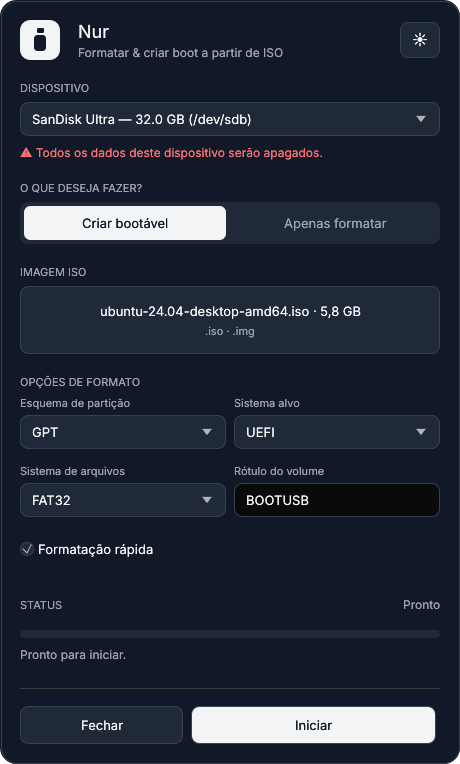
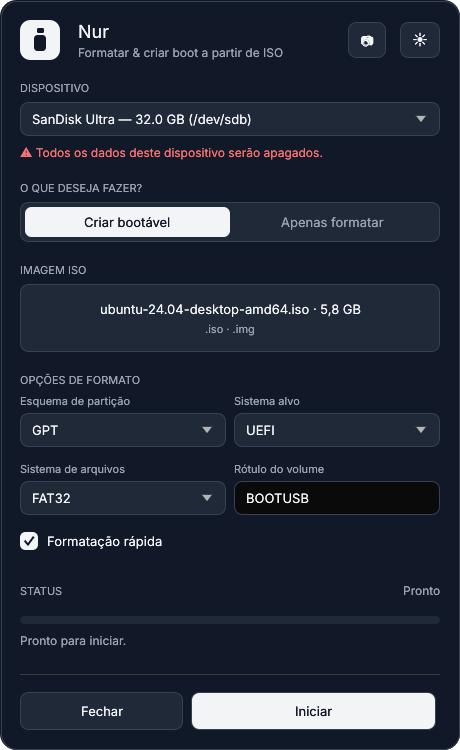
feat(ui): botão de captura no header + componente Checkbox estilizado
- botão de câmera no header chama Capturer::capture_now (independe do F12,
  que alguns desktops interceptam)
- novo componente Checkbox (caixa arredondada + check desenhado) substitui
  o checkbox padrão do egui em 'Formatação rápida'

diff --git a/crates/ui/src/components/checkbox.rs b/crates/ui/src/components/checkbox.rs
@@ -1,0 +1,55 @@
+//! Componente: checkbox estilizado (caixa arredondada + check desenhado).
+
+use crate::theme::Palette;
+
+/// Checkbox com rótulo, desenhado à mão para padding/estilo consistentes.
+pub(crate) struct Checkbox;
+
+impl Checkbox {
+    /// Desenha o checkbox; alterna `checked` ao clicar.
+    pub(crate) fn show(ui: &mut egui::Ui, palette: Palette, label: &str, checked: &mut bool) {
+        let box_size = 18.0;
+        let (rect, resp) =
+            ui.allocate_exact_size(egui::vec2(ui.available_width(), 22.0), egui::Sense::click());
+        if resp.clicked() {
+            *checked = !*checked;
+        }
+        if resp.hovered() {
+            ui.ctx().set_cursor_icon(egui::CursorIcon::PointingHand);
+        }
+        let painter = ui.painter();
+        let box_rect = egui::Rect::from_min_size(
+            egui::pos2(rect.min.x, rect.center().y - box_size / 2.0),
+            egui::vec2(box_size, box_size),
+        );
+        let radius = egui::CornerRadius::same(5);
+        if *checked {
+            painter.rect_filled(box_rect, radius, palette.accent());
+            let center = box_rect.center();
+            let check = vec![
+                center + egui::vec2(-4.0, 0.0),
+                center + egui::vec2(-1.0, 3.5),
+                center + egui::vec2(4.5, -4.0),
+            ];
+            painter.add(egui::Shape::line(
+                check,
+                egui::Stroke::new(2.0, palette.on_accent()),
+            ));
+        } else {
+            painter.rect_filled(box_rect, radius, palette.control());
+            painter.rect_stroke(
+                box_rect,
+                radius,
+                egui::Stroke::new(1.0, palette.border()),
+                egui::StrokeKind::Inside,
+            );
+        }
+        painter.text(
+            egui::pos2(box_rect.max.x + 9.0, rect.center().y),
+            egui::Align2::LEFT_CENTER,
+            label,
+            egui::FontId::proportional(13.0),
+            palette.text(),
+        );
+    }
+}

diff --git a/crates/ui/src/app/draw.rs b/crates/ui/src/app/draw.rs
@@ -70,6 +70,8 @@ impl NurApp {
                 });
                 ui.with_layout(egui::Layout::right_to_left(egui::Align::Center), |ui| {
                     self.theme_toggle(ui, palette);
+                    ui.add_space(6.0);
+                    self.screenshot_button(ui, palette);
                 });
             })
             .response;
@@ -113,6 +115,19 @@ impl NurApp {
         if ui.add_sized([36.0, 36.0], button).clicked() {
             self.theme = self.theme.toggle();
             self.theme_installed = false;
+        }
+    }
+
+    fn screenshot_button(&mut self, ui: &mut egui::Ui, palette: Palette) {
+        let button = egui::Button::new(egui::RichText::new("\u{1F4F7}").size(14.0))
+            .fill(palette.control())
+            .corner_radius(egui::CornerRadius::same(8));
+        if ui
+            .add_sized([36.0, 36.0], button)
+            .on_hover_text("Capturar tela (ou F12)")
+            .clicked()
+        {
+            self.capturer.capture_now(ui.ctx());
         }
     }
 

diff --git a/crates/ui/src/app/options.rs b/crates/ui/src/app/options.rs
@@ -1,7 +1,7 @@
 //! Seções de imagem ISO e opções de formato.
 
 use super::{Mode, NurApp};
-use crate::components::{FieldLabel, LabeledInput, LabeledSelect};
+use crate::components::{Checkbox, FieldLabel, LabeledInput, LabeledSelect};
 use crate::theme::Palette;
 
 const PARTITIONS: [&str; 2] = ["GPT", "MBR"];
@@ -83,11 +83,6 @@ impl NurApp {
             LabeledInput::show(&mut cols[1], palette, "Rótulo do volume", &mut self.label);
         });
         ui.add_space(12.0);
-        ui.checkbox(
-            &mut self.quick_format,
-            egui::RichText::new("Formatação rápida")
-                .color(palette.text())
-                .size(13.0),
-        );
+        Checkbox::show(ui, palette, "Formatação rápida", &mut self.quick_format);
     }
 }

diff --git a/crates/ui/src/capture.rs b/crates/ui/src/capture.rs
@@ -80,6 +80,12 @@ impl Capturer {
         self.save_ready(ctx)
     }
 
+    /// Solicita uma captura manualmente (ex.: botão na UI), sem depender do F12.
+    pub(crate) fn capture_now(&mut self, ctx: &egui::Context) {
+        Self::request(ctx);
+        self.pending = true;
+    }
+
     fn request(ctx: &egui::Context) {
         ctx.send_viewport_cmd(egui::ViewportCommand::Screenshot(egui::UserData::default()));
     }

diff --git a/crates/ui/src/components/mod.rs b/crates/ui/src/components/mod.rs
@@ -1,11 +1,13 @@
 //! Componentes de UI reutilizáveis (button, input, select, label).
 
 mod button;
+mod checkbox;
 mod field_label;
 mod select;
 mod text_input;
 
 pub(crate) use button::{DangerButton, PrimaryButton, SecondaryButton};
+pub(crate) use checkbox::Checkbox;
 pub(crate) use field_label::FieldLabel;
 pub(crate) use select::LabeledSelect;
 pub(crate) use text_input::LabeledInput;

diff --git a/docs/fase2-feedback.md b/docs/fase2-feedback.md
@@ -15,5 +15,8 @@ Itens reportados durante a implementação da UI, para não atrapalhar o fluxo a
 | 9 | Janela deve **auto-ajustar a altura** conforme as seções expandem/encolhem | ✅ feito (mede a altura do conteúdo e envia `ViewportCommand::InnerSize`; boot=764px, format=654px) |
 | 10 | **F12 não tirava print** | ✅ feito (faltava `request_repaint` após pedir o screenshot — sem ele o frame que recebe o evento não rodava; agora há um estado `pending`. Print salvo em caminho absoluto, com mensagem "captura salva em …") |
 | 11 | No tema **branco**, algumas bordas de elementos não apareciam | ✅ feito (o container do seletor de modo era branco sobre card branco sem borda; adicionada `stroke` de borda) |
+| 12 | F12 ainda não tirava print (desktop intercepta a tecla) | ✅ feito (**botão de captura** no header — ícone de câmera — via `Capturer::capture_now`; F12 segue funcionando onde não é interceptado) |
+| 13 | Componentizar e estilizar melhor o "radiobutton" (checkbox) | ✅ feito (componente `Checkbox` desenhado à mão: caixa arredondada + check, padding consistente) |
+| 14 | Animação da **pílula deslizante** no seletor de modo | ✅ feito (`animate_value_with_time`) |
 
 > Validação visual de cada item é feita por screenshot headless (xvfb) — ver `docs/screenshots/`.